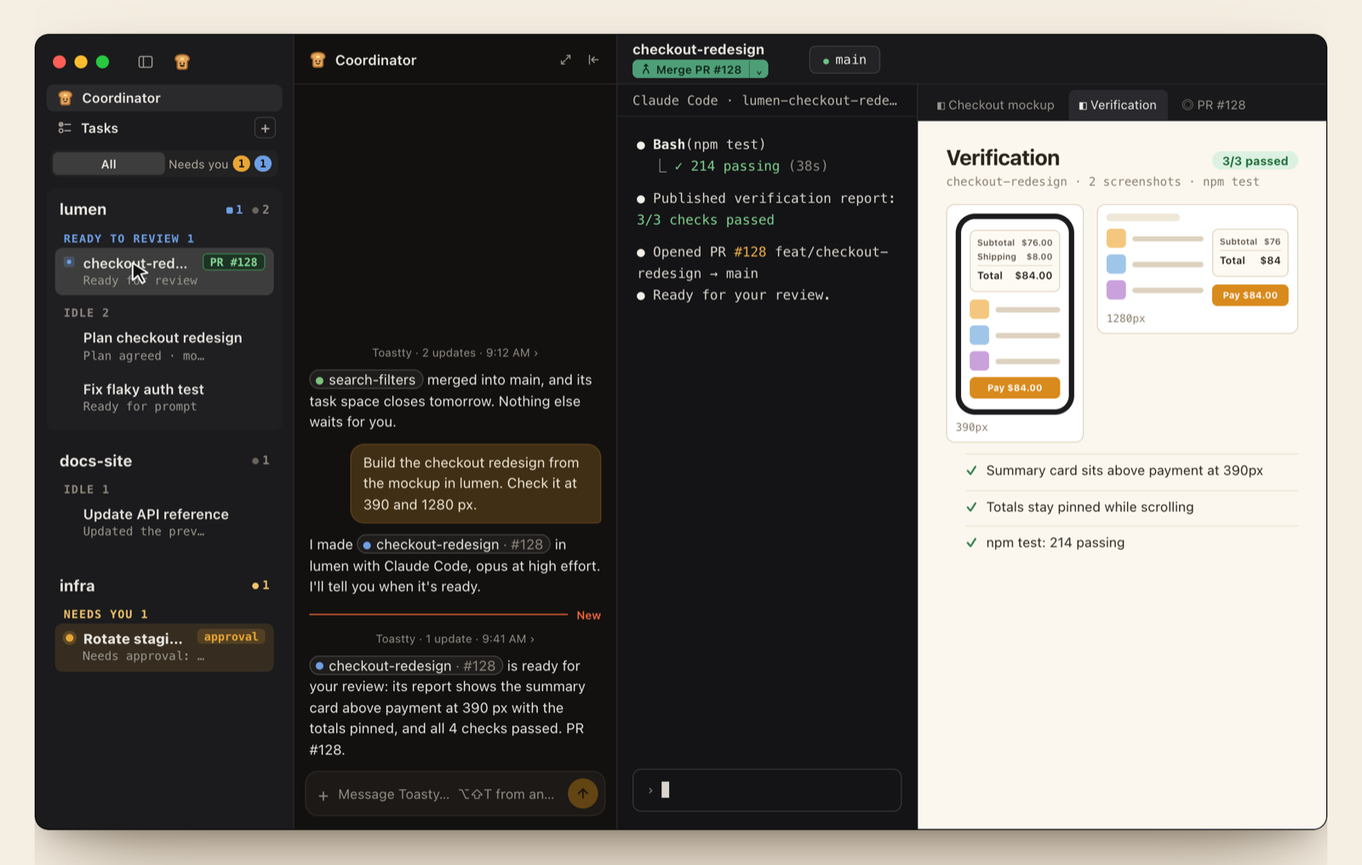
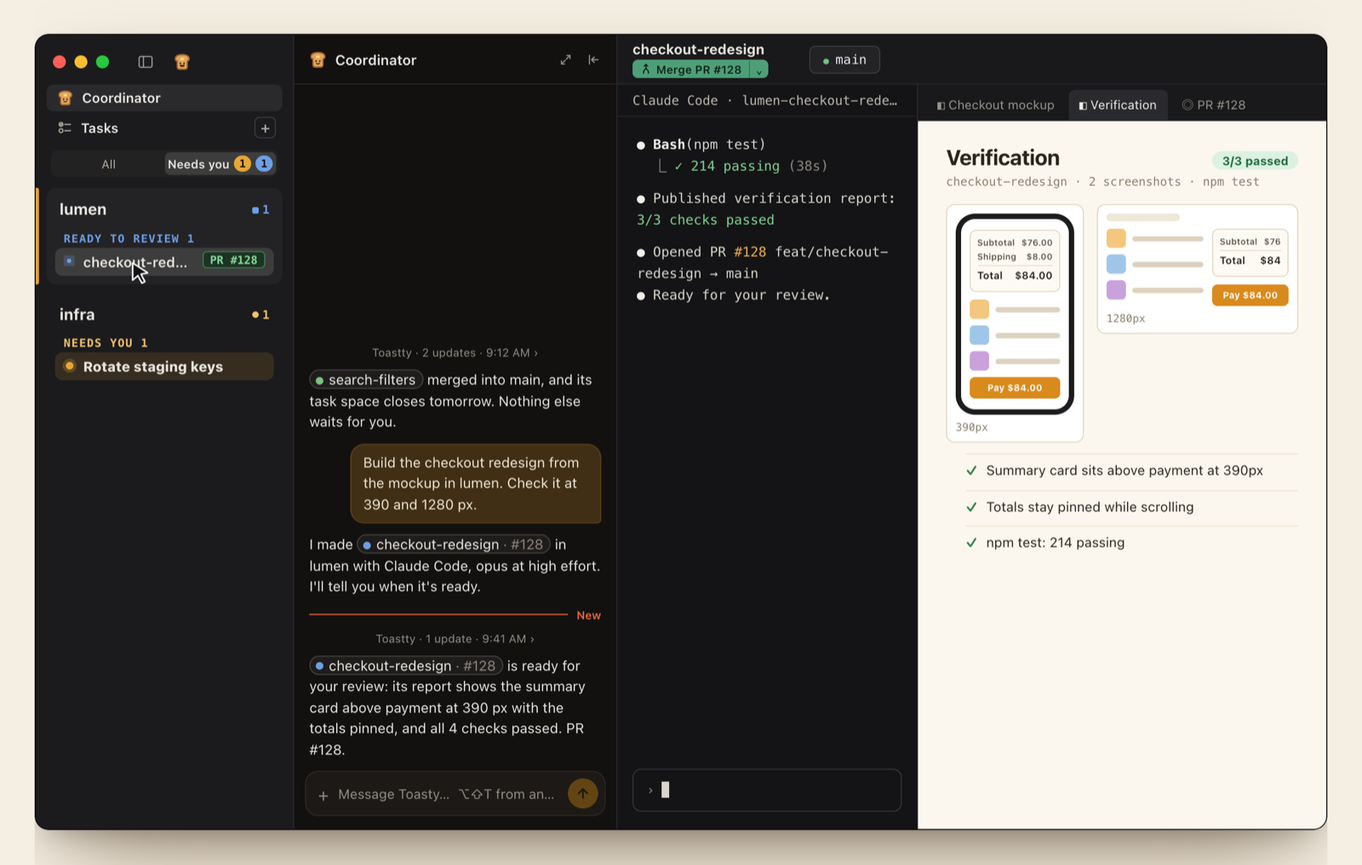
Keep the hero's sidebar on Needs you and re-render the README images
The hero showed the sidebar's All view. It now stays on Needs you, as the
sidebar demo does, and follows the app's rules for that view: only the
Needs you and Ready to review groups list, one line per row; a project with
nothing in them is left out; a selected row holds its place until it starts
work again.

So the story changes where it used a Running or Idle row. The user opens the
new task from Toasty's chip, as the app allows, and its terminal shows the
move into the worktree. docs-site's Codex session lists when it finishes a
turn the user has not read, and the user opens it from there. checkout-
redesign lists under Ready to review from 15.0 s and leaves when the merge
starts. The phone crop pans to the dock and the task's terminal for step 2;
the desktop shows the whole window.

A still rendered after a later frame placed the pointer from the layout
before its transitions settled, so renderFrame(t, true) now places it again
once they have.

The poster, workflow-2, workflow-3 and the social card are rendered from the
new hero. The social card's close-up starts at the All | Needs you switch, and
the card trims its frame to the crop on the right as it does at the bottom.

Claude-Session: https://claude.ai/code/session_01Dn8sFhoPaBqgUJu6BESwxm

diff --git a/website/hero.js b/website/hero.js
@@ -5,8 +5,9 @@
     var stage = document.getElementById('stage');
     var wrap = document.getElementById('wrap');
     var reduce = window.matchMedia && window.matchMedia('(prefers-reduced-motion: reduce)').matches;
+    // The sidebar stays on its Needs you view: a row shows only while it waits on the user.
     // POSTER is the still used for reduced motion, the README, and the social card: Toasty has
-    // just said why checkout-redesign is ready, the row is in Ready to review with its PR chip,
+    // just said why checkout-redesign is ready, its row is in Ready to review with its PR chip,
     // and the docs fix is visible in the right panel.
     var POSTER = 16.4;
     var t = reduce ? POSTER : 0, playing = !reduce, last = null, onScreen = true;
@@ -36,10 +37,9 @@
     var site = $('site'), para = $('para'), codeBlock = $('code-block');
     var wasV2 = false;
     var viewEls = { lumen: $('view-lumen'), child: $('view-child'), docs: $('view-docs') };
-    var cardLumen = $('card-lumen'), cardDocs = $('card-docs'), rowDocs = $('row-docs');
-    var docsS = $('docs-s'), docsIc = $('docs-ic'), docsBkt = $('docs-bkt'), docsHc = $('docs-hc'), lumenHc = $('lumen-hc'), segRev = $('seg-rev');
+    var cardLumen = $('card-lumen'), cardDocs = $('card-docs'), rowDocs = $('row-docs'), rowSub = $('row-sub');
+    var docsIc = $('docs-ic'), docsBkt = $('docs-bkt'), docsHc = $('docs-hc'), segY = $('seg-y'), segRev = $('seg-rev');
     var crChips = Array.prototype.slice.call(stage.querySelectorAll('.tl-cr'));
-    var rowSub = $('row-sub'), subS = $('sub-s'), subIc = $('sub-ic'), subPr = $('sub-pr'), subEl = $('sub-el'), subBkt = $('sub-bkt');
     var wtitle = $('wtitle'), phead = $('phead');
     var dockSt = $('dock-st'), dockWk = $('dock-wk'), dockWkT = $('dock-wk-t'), dockF = $('dock-f'), dockPh = $('dock-ph'), dockTyped = $('dock-typed'), dockSend = $('dock-send');
     var tabs = Array.prototype.slice.call(document.querySelectorAll('#rtabs .rtab'));
@@ -52,7 +52,6 @@
     // Replacing innerHTML every frame restarts the spinner animation; only write on change.
     function setHTML(el, html) { if (el.__html !== html) { el.innerHTML = html; el.__html = html; } }
     function setText(el, s) { if (el.__text !== s) { el.textContent = s; el.__text = s; } }
-    function pick(list) { var v = list[0][1]; for (var i = 0; i < list.length; i++) if (t >= list[i][0]) v = list[i][1]; return v; }
     function inside(a, b) { return t >= a && t < b; }
     function offsetIn(el) {
       var x = 0, y = 0, n = el;
@@ -71,10 +70,9 @@
     // The coordinator's turns: it works while the dock shows its working row.
     var DOCK_TURNS = [[2.9, 3.9], [15.0, 15.4], [19.9, 20.6]];
     var READY = 15.0, MERGING = 20.8, MERGED = 22.5;
-    var SUB_S = [[0, 'Setting up…'], [4.9, 'Reading the task…'], [5.8, 'Moving to worktree · fetching base'], [6.5, 'Moving to worktree · feat/checkout-redesign'],
-      [7.6, 'Editing SummaryCard.tsx'], [9.0, 'Running npm test…'], [11.0, 'Capturing screenshots…'], [12.6, 'Writing verification report…'], [14.0, 'Opening PR…'],
-      [READY, 'Ready for review'], [MERGING, 'Merging…'], [MERGED, 'Done · task space closes in 24 h']];
-    var DOCS_S = [[0, 'Ready for prompt'], [13.3, 'Reading annotation 1…'], [13.7, 'Editing webhooks.md'], [14.4, 'Updated the preview']];
+    // docs-site's Codex session finishes a turn at DOCS_DONE: unread, it needs the user. Opened at
+    // DOCS_OPEN, it stays in place while it is selected, and leaves when Codex works again.
+    var DOCS_DONE = 8.0, DOCS_OPEN = 8.9, DOCS_WORK = 13.3, DOCS_FIXED = 14.4;
     var MERGE_ICON = '<svg viewBox="0 0 24 24"><path d="M12 3v7c0 3-5 5-5 8v3"/><path d="M12 10c0 3 5 5 5 8v3"/><path d="m8.5 6.5 3.5-3.5 3.5 3.5"/></svg>';
 
     function render() {
@@ -84,8 +82,9 @@
         el.classList.toggle('show', t >= a && t < u);
       });
 
-      // which workspace is on screen: lumen, then docs-site, then the task space
-      var ws = t < 8.9 ? 'lumen' : t < 17.6 ? 'docs' : 'child';
+      // which workspace is on screen: lumen; the task space, opened from Toasty's reply; docs-site,
+      // opened from the sidebar; then the task space again, opened from its row
+      var ws = t < 4.6 ? 'lumen' : t < DOCS_OPEN ? 'child' : t < 17.6 ? 'docs' : 'child';
       Object.keys(viewEls).forEach(function (key) { viewEls[key].classList.toggle('show', key === ws); });
 
       // The coordinator's dock: the field types the request and "merge it"; Toasty works between them.
@@ -108,13 +107,8 @@
 
       // The task space under lumen: starting, working, ready to review, merging, done.
       var ready = inside(READY, MERGING), merging = inside(MERGING, MERGED), done = t >= MERGED;
-      var starting = inside(4.0, 4.9) || inside(5.8, 7.6);
+      var starting = inside(4.0, 4.9) || inside(5.8, 7.0);
       var working = !ready && !done;
-      rowSub.classList.toggle('working', working && !starting);
-      rowSub.classList.toggle('has-chip', ready || merging || done);
-      setText(subS, pick(SUB_S));
-      setHTML(subIc, done ? '<span class="tmark done">✓</span>' : ready ? '<span class="tmark rev"></span>' : starting ? '<span class="tmark start"></span>' : '<span class="spin"></span>');
-      subPr.classList.toggle('show', ready || merging || done);
       // Toasty's chips for the task follow it, as the app's do: its stage mark and, once it has one, its PR.
       crChips.forEach(function (c) {
         c.classList.toggle('run', working && !starting && t >= 4.0);
@@ -122,24 +116,20 @@
         c.classList.toggle('done', done);
         c.classList.toggle('has-pr', ready || merging || done);
       });
-      var secs = Math.round(Math.max(0, Math.min(t, READY) - 4.0) * 25 + 4);
-      setText(subEl, Math.floor(secs / 60) + 'm ' + ('0' + (secs % 60)).slice(-2) + 's');
-      subEl.style.display = t < READY ? '' : 'none';
-      // Once merged, the row stays where it is while it is selected, under no bucket title.
-      setText(subBkt, ready ? 'READY TO REVIEW 1' : 'RUNNING 1');
-      subBkt.classList.toggle('bl', ready);
-      subBkt.style.visibility = done ? 'hidden' : '';
-      var running = t >= 4.0 && (working || merging) ? 1 : 0;
-      setHTML(lumenHc, counts(0, ready ? 1 : 0, running && !done ? 1 : 0, 2));
+      // The Needs you list. The task lists in lumen while it waits for review; the merge makes it
+      // Running, so it leaves even while selected, and lumen, with nothing else, leaves with it.
+      cardLumen.style.display = ready ? '' : 'none';
+      // docs-site lists while its finished turn is unread, and stays while it is selected. Read,
+      // the row counts as idle, so its group says 0, as the app draws it.
+      var docsUnread = inside(DOCS_DONE, DOCS_OPEN);
+      cardDocs.style.display = inside(DOCS_DONE, DOCS_WORK) ? '' : 'none';
+      rowDocs.classList.toggle('ready', docsUnread);
+      setHTML(docsIc, docsUnread ? '<span class="mk dot ready"></span>' : '');
+      setText(docsBkt, 'NEEDS YOU ' + (docsUnread ? 1 : 0));
+      setHTML(docsHc, counts(docsUnread ? 1 : 0, 0, 0, 0));
+      setText(segY, String(1 + (docsUnread ? 1 : 0)));
       segRev.style.display = ready ? '' : 'none';
-
-      // docs-site: annotate the preview and send it to the agent
-      var docsWorking = inside(13.3, 14.4);
-      rowDocs.classList.toggle('working', docsWorking);
-      setText(docsS, pick(DOCS_S));
-      setHTML(docsIc, docsWorking ? '<span class="spin"></span>' : '');
-      setText(docsBkt, docsWorking ? 'RUNNING 1' : 'IDLE 1');
-      setHTML(docsHc, counts(0, 0, docsWorking ? 1 : 0, docsWorking ? 0 : 1));
+      var docsWorking = inside(DOCS_WORK, DOCS_FIXED);
 
       var annoMode = inside(9.8, 13.3);
       annoBtn.classList.toggle('on', annoMode);
@@ -174,46 +164,51 @@
       wasV2 = v2;
 
       // selection
-      cardLumen.classList.toggle('sel', ws === 'lumen');
-      cardLumen.classList.toggle('parent-hl', ws === 'child');
+      cardLumen.classList.toggle('sel', ws === 'child');
       rowSub.classList.toggle('sel', ws === 'child');
       cardDocs.classList.toggle('sel', ws === 'docs');
       rowDocs.classList.toggle('sel', ws === 'docs');
       var mergeLabel = done ? '<span class="mergeb done">Done · PR #128</span>'
         : merging ? '<span class="mergeb busy"><span class="spin"></span>Merging PR #128…</span>'
         : '<span class="mergeb"><span>' + MERGE_ICON + 'Merge PR #128</span><span>⌄</span></span>';
-      setHTML(wtitle, ws === 'child' ? '<b>checkout-redesign</b>' + mergeLabel
+      setHTML(wtitle, ws === 'child' ? '<b>checkout-redesign</b>' + (t < READY ? '<span>1 running</span>' : mergeLabel)
         : ws === 'docs' ? '<b>docs-site</b><span>' + (docsWorking ? '1 running' : 'idle') + '</span>'
         : '<b>lumen</b><span>idle</span>');
-      setText(phead, ws === 'child' ? 'Claude Code · lumen-checkout-redesign' : ws === 'docs' ? 'Codex · docs-site' : 'Claude Code · lumen');
+      setText(phead, ws === 'child' ? (t < 7.0 ? 'Claude Code · lumen' : 'Claude Code · lumen-checkout-redesign') : ws === 'docs' ? 'Codex · docs-site' : 'Claude Code · lumen');
 
       // right panel tabs belong to a workspace; each workspace has one active tab
-      var ACTIVE = { lumen: 'mock', docs: 'docsweb', child: 'verify' };
+      // The task space gains its report and PR tabs as its agent makes them.
+      var ACTIVE = { lumen: 'mock', docs: 'docsweb', child: t < 12.6 ? 'mock' : 'verify' };
       tabs.forEach(function (tb) {
         var key = tb.getAttribute('data-tab');
-        tb.classList.toggle('show', tb.getAttribute('data-ws').split(' ').indexOf(ws) >= 0);
+        tb.classList.toggle('show', tb.getAttribute('data-ws').split(' ').indexOf(ws) >= 0 && t >= parseFloat(tb.getAttribute('data-from') || '0'));
         tb.classList.toggle('on', key === ACTIVE[ws]);
       });
       Object.keys(views).forEach(function (key) { views[key].classList.toggle('on', key === ACTIVE[ws]); });
 
-      // camera: zoom into the sidebar and the dock while the task moves into its worktree
-      var zoomAmt = seg(4.6, 5.2) - seg(7.6, 8.2);
-      var focus = offsetIn(cardLumen), Z = 1 + 0.45 * zoomAmt;
-      // anchor below the card's top so the task row and the coordinator's answer both show
-      var fx = focus.x + focus.w / 2, fy = focus.y + 255;
-      var tx = Math.min(0, Math.max(VW - 1200 * Z, 330 - fx * Z)), ty = Math.min(0, Math.max(740 - 740 * Z, 370 - fy * Z));
-      if (VW < 1200 && zoomAmt < 0.001) {
-        // phone crop: for the docs preview, zoom the 380px right panel to fill the crop
-        var right = seg(9.0, 9.6) - seg(14.4, 14.9);
-        Z = 1 + (VW / 380 - 1) * right;
-        tx = -(1200 * Z - VW) * right;
-        ty = -40 * Z * right;
+      // camera: the desktop shows the whole window. The phone crop shows the sidebar and the dock;
+      // it pans to Toasty's reply and the task's terminal while the task moves into its worktree,
+      // and zooms the 380px right panel to fill the crop for the docs preview.
+      var Z = 1, tx = 0, ty = 0;
+      if (VW < 1200) {
+        var toTask = seg(4.6, 5.2) - seg(7.6, 8.2), right = seg(9.0, 9.6) - seg(14.4, 14.9);
+        var dockX = offsetIn(dockF.parentNode).x;
+        if (toTask > 0) {
+          // the dock's left edge to the terminal's right edge (580px) fills the crop
+          Z = 1 + (VW / 580 - 1) * toTask;
+          tx = -dockX * Z * toTask;
+        } else {
+          Z = 1 + (VW / 380 - 1) * right;
+          tx = -(1200 * Z - VW) * right;
+          ty = -40 * Z * right;
+        }
       }
       cam.style.transform = 'translate(' + tx + 'px,' + ty + 'px) scale(' + Z + ')';
 
       // cursor path
-      var rest1 = { x: 760, y: 520 }, rest3 = { x: 700, y: 600 };
-      var subBox = offsetIn(rowSub), docsBox = offsetIn(rowDocs), fieldBox = offsetIn(dockF);
+      var rest3 = { x: 700, y: 600 };
+      var subBox = offsetIn(rowSub), docsBox = offsetIn(rowDocs), fieldBox = offsetIn(dockF), chipBox = offsetIn(crChips[0]);
+      var onChip = { x: chipBox.x + chipBox.w / 2, y: chipBox.y + chipBox.h / 2 }, nearChip = { x: onChip.x + 110, y: onChip.y + 60 };
       var btnBox = offsetIn(annoBtn), siteBox = offsetIn(site), addBox = offsetIn(annoAdd), sendBox = offsetIn(abSend), itemBox = offsetIn(annoItem);
       var onSub = { x: subBox.x + 70, y: subBox.y + 14 };
       var onDocs = { x: docsBox.x + 80, y: docsBox.y + 14 };
@@ -221,8 +216,8 @@
       var onBtn = { x: btnBox.x + 10, y: btnBox.y + 8 };
       var dragA = { x: siteBox.x + box.x + 2, y: siteBox.y + box.y + 2 }, dragB = { x: siteBox.x + box.x + box.w, y: siteBox.y + box.y + box.h };
       var onAdd = { x: addBox.x + 16, y: addBox.y + 8 }, onSendBtn = { x: sendBox.x + 40, y: sendBox.y + 12 }, onItem = { x: itemBox.x + 50, y: itemBox.y + 10 };
-      var path = [[0, rest1], [8.0, rest1], [8.7, onDocs], [9.0, onDocs], [9.6, onBtn], [9.8, onBtn], [10.3, dragA], [10.4, dragA], [11.0, dragB], [12.0, dragB], [12.3, onAdd], [12.5, onAdd], [12.8, onSendBtn], [12.95, onSendBtn], [13.15, onItem], [13.35, onItem], [14.0, rest3], [16.6, rest3], [17.3, onSub], [17.8, onSub], [18.7, onField], [D, onField]];
-      var p = rest1;
+      var path = [[0, nearChip], [4.0, nearChip], [4.4, onChip], [8.05, onChip], [8.7, onDocs], [9.0, onDocs], [9.6, onBtn], [9.8, onBtn], [10.3, dragA], [10.4, dragA], [11.0, dragB], [12.0, dragB], [12.3, onAdd], [12.5, onAdd], [12.8, onSendBtn], [12.95, onSendBtn], [13.15, onItem], [13.35, onItem], [14.0, rest3], [16.6, rest3], [17.3, onSub], [17.8, onSub], [18.7, onField], [D, onField]];
+      var p = nearChip;
       for (var i = 0; i < path.length - 1; i++) {
         if (t >= path[i][0] && t < path[i + 1][0]) {
           var f = ease((t - path[i][0]) / (path[i + 1][0] - path[i][0]));
@@ -231,12 +226,14 @@
         }
       }
       cursor.style.transform = 'translate(' + p.x + 'px,' + p.y + 'px)';
-      var clicks = [8.75, 9.7, 12.35, 12.85, 13.2, 17.4, 18.85];
+      var clicks = [4.45, 8.75, 9.7, 12.35, 12.85, 13.2, 17.4, 18.85];
       cursor.classList.toggle('click', clicks.some(function (c) { return t >= c && t < c + 0.4; }));
-      // The pointer shows only while it moves to something or clicks it: from the docs step to its
-      // last click, then from the move to the task row until the user types "merge it" (macOS hides
-      // the pointer while you type). So it never sits idle in a still such as the poster.
-      cursor.style.opacity = t < 7.9 ? 0 : t < 13.6 ? 1 : t < 14.0 ? 1 - seg(13.6, 14.0) : t < 16.5 ? 0 : t < 19.1 ? seg(16.5, 16.7) : 1 - seg(19.1, 19.3);
+      // The pointer shows only while it moves to something or clicks it: to Toasty's chip, from the
+      // docs step to its last click, then from the move to the task row until the user types
+      // "merge it" (macOS hides the pointer while you type). So it never sits idle in a still such
+      // as the poster.
+      cursor.style.opacity = t < 3.95 ? 0 : t < 4.6 ? seg(3.95, 4.1) : t < 4.9 ? 1 - seg(4.6, 4.9) : t < 8.0 ? 0 : t < 13.6 ? seg(8.0, 8.15)
+        : t < 14.0 ? 1 - seg(13.6, 14.0) : t < 16.5 ? 0 : t < 19.1 ? seg(16.5, 16.7) : 1 - seg(19.1, 19.3);
 
       // loop fade
       fade.style.opacity = t > 23.2 ? (t - 23.2) / 0.8 : (t < 0.4 ? 1 - t / 0.4 : 0);
@@ -300,7 +297,9 @@
       poster: POSTER,
       beats: beats.map(function (b) { return parseFloat(b.getAttribute('data-t')); }),
       startRendering: function () { rendering = true; setPlaying(false); fit(); },
-      renderFrame: function (x, settle) { t = x; render(); syncAnimations(!!settle); }
+      // A still renders twice: the pointer and the annotation overlays are placed from the layout,
+      // which is final only once the transitions that this frame started have finished.
+      renderFrame: function (x, settle) { t = x; render(); syncAnimations(!!settle); if (settle) { render(); syncAnimations(true); } }
     };
 
   } catch (e) {

diff --git a/website/index.html b/website/index.html
@@ -88,7 +88,7 @@
 
 <section class="shell video" aria-labelledby="video-title">
   <h2 class="sr-only" id="video-title">Example workflow</h2>
-  <p class="sr-only">An animated recreation of Toastty with the coordinator's chat docked beside the sidebar. The user asks the coordinator, Toasty, to build a checkout redesign from a mockup. Toasty makes a task in the lumen project, and the task's Claude Code session moves into its own git worktree. While it works, the user marks up a docs preview in the right panel and sends the comment to a Codex session, which fixes the page. Toasty reports that the checkout redesign is ready for review with PR #128, and why. The user replies "merge it", and the task merges.</p>
+  <p class="sr-only">An animated recreation of Toastty with the coordinator's chat docked beside the sidebar. The user asks the coordinator, Toasty, to build a checkout redesign from a mockup. The sidebar shows only what needs the user. Toasty makes a task in the lumen project, and the user opens it from Toasty's reply to see its Claude Code session move into its own git worktree. When a Codex session in docs-site finishes a turn, it shows in the sidebar; the user opens it, marks up the docs preview in the right panel and sends the comment, and Codex fixes the page. Toasty reports that the checkout redesign is ready for review with PR #128, and why, and the task shows in the sidebar under Ready to review. The user opens it, replies "merge it", and the task merges.</p>
   <div class="stage-wrap" id="wrap" aria-hidden="true">
     <div class="stage" id="stage">
      <div class="viewport" id="viewport">
@@ -100,44 +100,26 @@
           <div class="lights"><i></i><i></i><i></i><span class="tbi"><svg viewBox="0 0 24 24"><use href="#ic-sidebar"/></svg></span><span class="tbi gold"><svg viewBox="0 0 16 16"><use href="#toasty-gold"/></svg></span></div>
           <div class="side-coord on"><svg viewBox="0 0 16 16"><use href="#toasty-gold"/></svg>Coordinator</div>
           <div class="side-tasks"><svg viewBox="0 0 24 24"><use href="#ic-checklist"/></svg>Tasks<span class="side-plus">+</span></div>
-          <div class="side-seg"><span class="on">All</span><span>Needs you<b class="side-n y">1</b><b class="side-n bl" id="seg-rev">1</b></span></div>
+          <div class="side-seg"><span>All</span><span class="on">Needs you<b class="side-n y" id="seg-y">1</b><b class="side-n bl" id="seg-rev" style="display:none">1</b></span></div>
 
-          <div class="card sel" id="card-lumen">
-            <div class="wsn"><span>lumen</span><span class="side-hc" id="lumen-hc"></span></div>
-            <div class="grow" data-at="4.0">
-              <div class="side-bkt" id="sub-bkt">RUNNING 1</div>
-              <div class="row working" id="row-sub">
-                <span class="ic" id="sub-ic"></span>
-                <div class="t">checkout-redesign</div>
-                <div class="s" id="sub-s">Setting up…</div>
-                <span class="chip pr" id="sub-pr">PR #128</span>
-                <span class="elapsed" id="sub-el">0m 04s</span>
-              </div>
-            </div>
-            <div class="side-bkt">IDLE 2</div>
-            <div class="row"><span class="ic"></span><div class="t">Plan checkout redesign</div><div class="s">Plan agreed · mockup rev 3</div></div>
-            <div class="row"><span class="ic"></span><div class="t">Fix flaky auth test</div><div class="s">Ready for prompt</div></div>
+          <!-- The Needs you list: only rows that wait on the user, under their project. A project
+               with none is left out, as in the app. -->
+          <div class="card" id="card-lumen" style="display:none">
+            <div class="wsn"><span>lumen</span><span class="side-hc"><span class="bl"><i></i>1</span></span></div>
+            <div class="side-bkt bl">READY TO REVIEW 1</div>
+            <div class="row compact has-chip" id="row-sub"><span class="ic"><span class="tmark rev"></span></span><div class="t">checkout-redesign</div><span class="chip pr show">PR #128</span></div>
           </div>
 
-          <div class="card" id="card-docs">
+          <div class="card" id="card-docs" style="display:none">
             <div class="wsn"><span>docs-site</span><span class="side-hc" id="docs-hc"></span></div>
-            <div class="side-bkt" id="docs-bkt">IDLE 1</div>
-            <div class="row" id="row-docs">
-              <span class="ic" id="docs-ic"></span>
-              <div class="t">Update API reference</div>
-              <div class="s" id="docs-s">Ready for prompt</div>
-            </div>
+            <div class="side-bkt y" id="docs-bkt">NEEDS YOU 1</div>
+            <div class="row compact" id="row-docs"><span class="ic" id="docs-ic"></span><div class="t">Update API reference</div></div>
           </div>
 
           <div class="card">
             <div class="wsn"><span>infra</span><span class="side-hc"><span class="y"><i></i>1</span></span></div>
             <div class="side-bkt y">NEEDS YOU 1</div>
-            <div class="row has-chip approval">
-              <span class="ic"><span class="mk dot appr"></span></span>
-              <div class="t">Rotate staging keys</div>
-              <div class="s">Needs approval: apply plan</div>
-              <span class="chip appr">approval</span>
-            </div>
+            <div class="row compact approval"><span class="ic"><span class="mk dot appr"></span></span><div class="t">Rotate staging keys</div></div>
           </div>
         </aside>
 
@@ -181,13 +163,23 @@
 
           <div class="view" id="view-child">
             <div class="lines">
-              <div class="ln always"><span class="b">●</span> <span class="b">Bash</span>(npm test)</div>
-              <div class="ln always">  ⎿ <span class="g">✓ 214 passing</span> <span class="m">(38s)</span></div>
-              <div class="ln always gap"></div>
-              <div class="ln always"><span class="b">●</span> Published verification report: <span class="g">3/3 checks passed</span></div>
-              <div class="ln always gap"></div>
-              <div class="ln always"><span class="b">●</span> Opened PR <span class="a">#128</span> feat/checkout-redesign → main</div>
-              <div class="ln always"><span class="b">●</span> Ready for your review.</div>
+              <div class="ln a" data-until="8.9">› Use the toastty-task-start skill.</div>
+              <div class="ln m" data-until="8.9">  Build the checkout redesign from the mockup in lumen. Check it at 390 and 1280 px.</div>
+              <div class="ln gap" data-at="5.0" data-until="8.9"></div>
+              <div class="ln" data-at="5.0" data-until="8.9"><span class="b">●</span> The change is clear. Moving it into its own worktree.</div>
+              <div class="ln" data-at="5.6" data-until="8.9"><span class="b">●</span> <span class="b">Bash</span>(toastty task start-work --branch-prefix feat)</div>
+              <div class="ln m" data-at="5.9" data-until="6.5">  ⎿ Moving to worktree · fetching base</div>
+              <div class="ln m" data-at="6.5" data-until="8.9">  ⎿ Moving to worktree · feat/checkout-redesign</div>
+              <div class="ln gap" data-at="7.0" data-until="8.9"></div>
+              <div class="ln a" data-at="7.0" data-until="8.9">› You are in the git worktree lumen-checkout-redesign, on branch feat/checkout-redesign.</div>
+              <div class="ln" data-at="7.6" data-until="8.9"><span class="b">●</span> <span class="b">Edit</span> src/checkout/SummaryCard.tsx</div>
+              <div class="ln" data-at="8.9"><span class="b">●</span> <span class="b">Bash</span>(npm test)</div>
+              <div class="ln" data-at="8.9">  ⎿ <span class="g">✓ 214 passing</span> <span class="m">(38s)</span></div>
+              <div class="ln gap" data-at="8.9"></div>
+              <div class="ln" data-at="8.9"><span class="b">●</span> Published verification report: <span class="g">3/3 checks passed</span></div>
+              <div class="ln gap" data-at="8.9"></div>
+              <div class="ln" data-at="8.9"><span class="b">●</span> Opened PR <span class="a">#128</span> feat/checkout-redesign → main</div>
+              <div class="ln" data-at="8.9"><span class="b">●</span> Ready for your review.</div>
               <div class="ln gap" data-at="20.9"></div>
               <div class="ln a" data-at="20.9">› Use the toastty-task-merge skill.</div>
               <div class="ln gap" data-at="21.4"></div>
@@ -220,9 +212,9 @@
         <aside class="rp">
           <div class="rtabs" id="rtabs">
             <span class="rtab" data-tab="mock" data-ws="lumen child">◧ Checkout mockup</span>
-            <span class="rtab" data-tab="verify" data-ws="child">◧ Verification</span>
+            <span class="rtab" data-tab="verify" data-ws="child" data-from="12.6">◧ Verification</span>
             <span class="rtab" data-tab="docsweb" data-ws="docs">◎ localhost:3000</span>
-            <span class="rtab" data-tab="pr" data-ws="child">◎ PR #128</span>
+            <span class="rtab" data-tab="pr" data-ws="child" data-from="14.0">◎ PR #128</span>
           </div>
           <div class="rbody">
 

diff --git a/website/styles.css b/website/styles.css
@@ -61,7 +61,6 @@ h1 em { display: block; color: var(--amber); font-style: normal; }
 .card { position: relative; border-radius: 9px; padding: 10px 8px 8px; margin-bottom: 8px; transition: background 0.3s; }
 .card.sel { background: #232326; }
 .card.sel::before { content: ""; position: absolute; left: -10px; top: 0; bottom: 0; width: 3px; background: #e2a13a; border-radius: 0 2px 2px 0; }
-.card.parent-hl { background: #1f1f22; }
 .wsn { display: flex; align-items: center; justify-content: space-between; font-weight: 700; font-size: 14.5px; padding: 0 4px; }
 .row { position: relative; padding: 5px 8px 5px 26px; border-radius: 7px; margin-top: 3px; transition: background 0.3s; }
 .row.sel { background: #3D3D3D; }
@@ -88,8 +87,6 @@ h1 em { display: block; color: var(--amber); font-style: normal; }
 .chip.pr.show { transform: scale(1); opacity: 1; }
 .chip.appr { top: 5px; color: #E8A635; background: rgba(232, 166, 53, 0.16); }
 .elapsed { position: absolute; right: 8px; bottom: 6px; font: 11px var(--mono); color: #86827a; }
-.grow { max-height: 0; overflow: hidden; opacity: 0; transition: max-height 0.55s ease, opacity 0.4s ease; }
-.grow.show { max-height: 90px; opacity: 1; }
 
 /* top bar */
 .top { grid-column: 2 / 4; grid-row: 1; display: flex; align-items: center; gap: 14px; border-bottom: 1px solid #28282c; padding: 0 14px; background: #19191b; }
@@ -276,7 +273,6 @@ h1 em { display: block; color: var(--amber); font-style: normal; }
 .tmark.rev::after { content: ""; width: 4.5px; height: 4.5px; border-radius: 50%; background: #6E9FE6; }
 .tmark.q { background: rgba(232, 166, 53, 0.22); color: #E8A635; font: 800 8px/1 var(--sans); }
 .tmark.done { background: rgba(124, 196, 127, 0.2); color: #7CC47F; font: 800 8px/1 var(--sans); }
-.tmark.start { border: 1.2px dashed #8F877D; }
 .row.compact { padding-top: 4px; padding-bottom: 4px; }
 .row.compact .ic { top: 7px; }
 .row.compact .chip { top: 3px; }

diff --git a/scripts/website/social-card.html b/scripts/website/social-card.html
@@ -46,9 +46,10 @@
   // Scale the crop to fill the box width (or height, whichever is tighter), anchored top-left.
   const scale = Math.min(box.clientWidth / w, box.clientHeight / h);
   img.style.transform = `translate(${-x * scale}px, ${-y * scale}px) scale(${scale})`;
-  // End the box at the crop's bottom edge so a partly cut row never shows.
+  // End the box at the crop's bottom and right edges so a partly cut row or panel never shows.
   const height = Math.min(box.clientHeight, h * scale);
   box.style.height = `${height}px`;
+  box.style.width = `${Math.min(box.clientWidth, w * scale)}px`;
   box.style.top = `${(630 - height) / 2}px`;
   img.src = params.get('poster');
 </script>

diff --git a/README.md b/README.md
@@ -2,7 +2,7 @@
 
 <p align="center">
   <a href="https://toastty.dev">
-    <img src="docs/assets/toastty-hero.png" alt="Toastty with a checkout-redesign task space ready for review in the sidebar, its PR #128 chip, and a docs preview in the right panel" width="900">
+    <img src="docs/assets/toastty-hero.png" alt="Toastty with the sidebar on Needs you: the checkout-redesign task under Ready to review with its PR #128 chip, the coordinator's note on why it is ready, and a docs preview in the right panel" width="900">
   </a>
 </p>
 
@@ -43,7 +43,7 @@ Updating from 0.9.x? See [what changes](docs/tasks.md#updating-from-09x). To bui
 <table>
   <tr>
     <td width="33%"><img src="docs/assets/readme/workflow-1.png" alt="The quick entry panel over another app, with a message for the coordinator, an attached screenshot, and its Create and Send buttons"></td>
-    <td width="33%"><img src="docs/assets/readme/workflow-2.png" alt="The sidebar's project card with the checkout-redesign task under Ready to review, its PR #128 chip beside it"></td>
+    <td width="33%"><img src="docs/assets/readme/workflow-2.png" alt="The sidebar's Needs you list with the checkout-redesign task under Ready to review, its PR #128 chip beside it, and the coordinator's note on why it is ready"></td>
     <td width="33%"><img src="docs/assets/readme/workflow-3.png" alt="The checkout-redesign task space open, with the Merge PR #128 button in its top bar, the agent's terminal, and its verification report in the right panel"></td>
   </tr>
   <tr>
